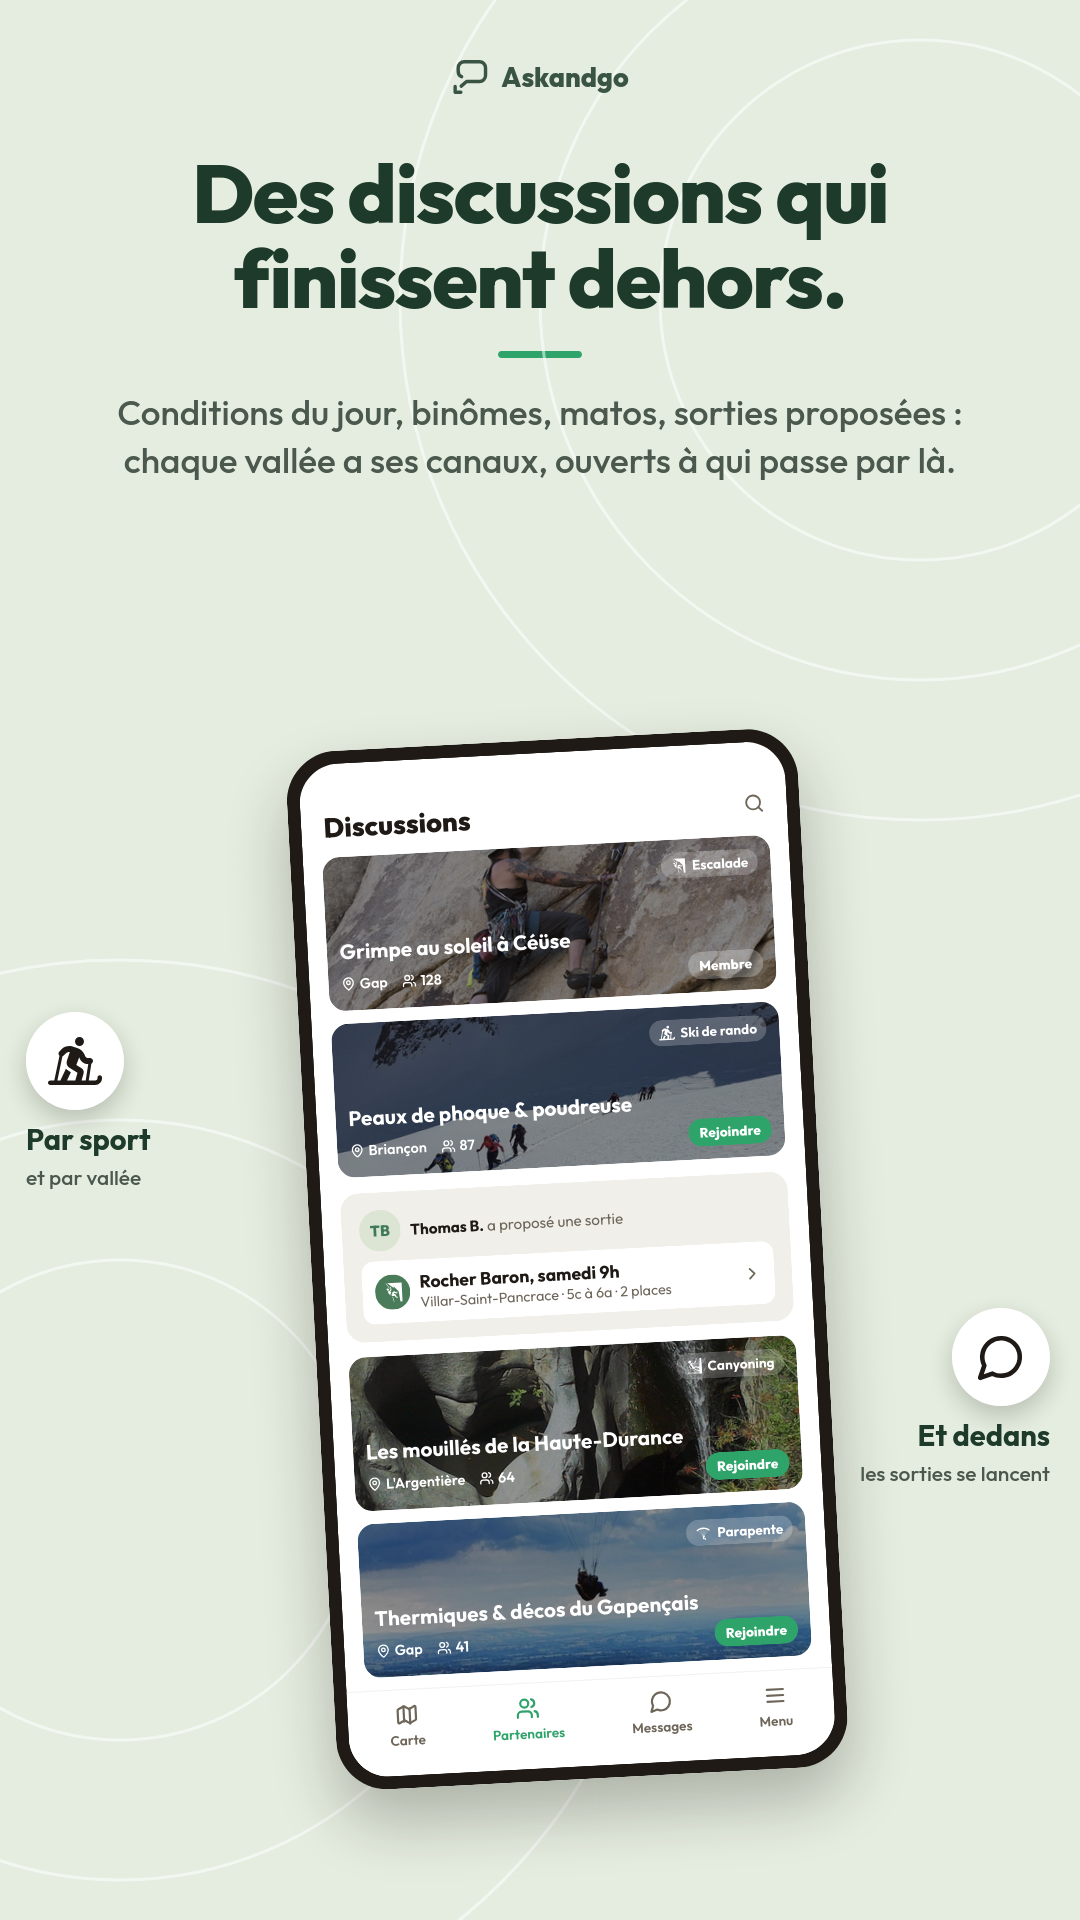
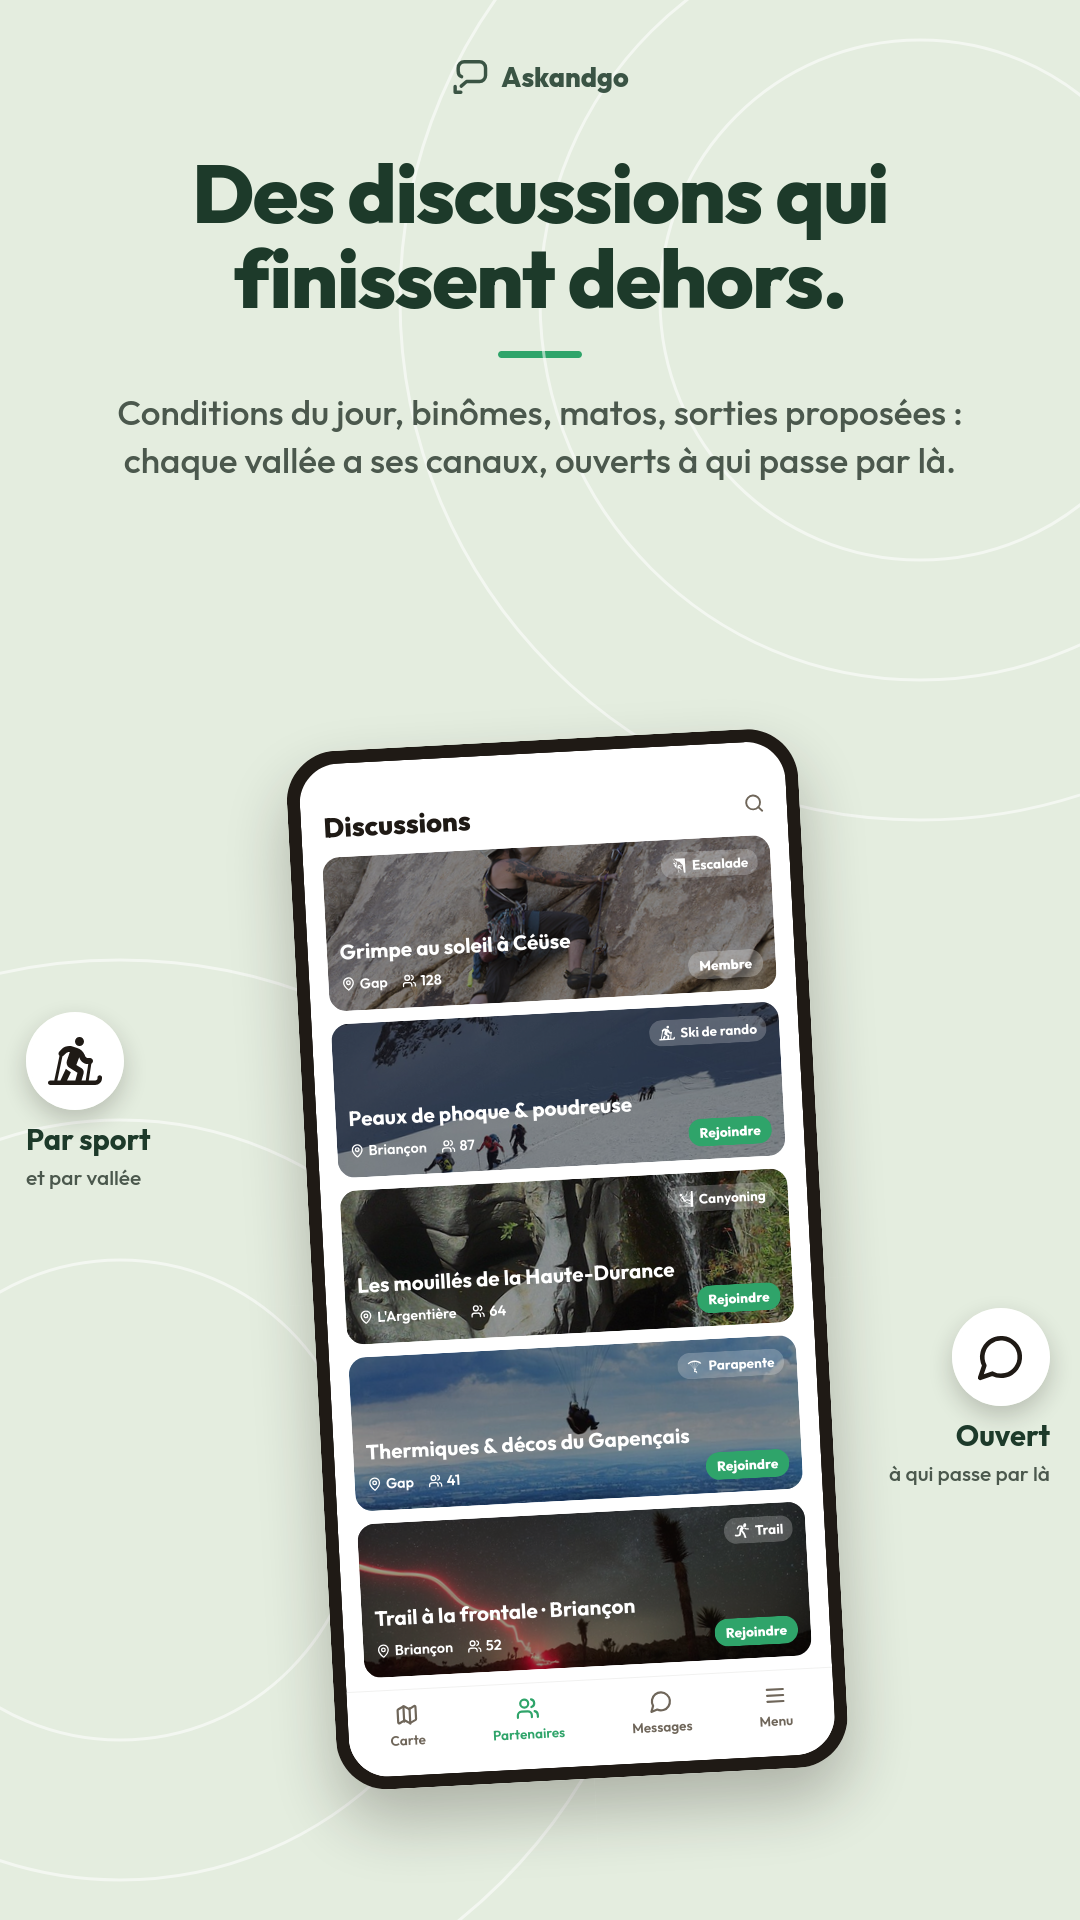
docs(store): Partenaires, Canaux and Profil images redrawn from the real screens (zone pill, « Ta dispo » line, dispo cards with reliability ring; channels only; real profile hero, sport chips, peer lines, contact button — no invented badges)

Changed region(s): [[0.3056, 0.5938, 0.7639, 0.875], [0.825, 0.7188, 0.9778, 0.7812]]

diff --git a/assets/play-store/askandgo/generate.py b/assets/play-store/askandgo/generate.py
@@ -26,6 +26,9 @@ L={ # lucide-ish paths (24 grid)
 'sliders':'<path d="M4 21v-7M4 10V3M12 21v-9M12 8V3M20 21v-5M20 12V3M2 14h4M10 8h4M18 16h4"/>',
 'layers':'<path d="m12.8 2.2 8.5 4.2a1 1 0 0 1 0 1.8l-8.5 4.2a2 2 0 0 1-1.8 0L2.5 8.2a1 1 0 0 1 0-1.8l8.5-4.2a2 2 0 0 1 1.8 0"/><path d="m22 17.7-9.3 4.6a2 2 0 0 1-1.8 0L2 17.7"/><path d="m22 12.5-9.3 4.6a2 2 0 0 1-1.8 0L2 12.5"/>',
 'plus':'<path d="M5 12h14M12 5v14"/>',
+'mountain':'<path d="m8 3 4 8 5-5 5 15H2L8 3z"/>',
+'help':'<circle cx="12" cy="12" r="10"/><path d="M9.1 9a3 3 0 0 1 5.8 1c0 2-3 3-3 3"/><path d="M12 17h.01"/>',
+'chevl':'<path d="m9 18 6-6-6-6"/>',
 'eye':'<path d="M2 12s3.5-7 10-7 10 7 10 7-3.5 7-10 7S2 12 2 12"/><circle cx="12" cy="12" r="3"/>',
 'bell':'<path d="M10.3 21a1.9 1.9 0 0 0 3.4 0"/><path d="M3.3 17c-.3.3-.3.8 0 1.1.2.2.4.3.7.3h16c.6 0 1-.4 1-1 0-.3-.1-.5-.3-.7-1.1-1.1-2.1-2.3-2.1-6.3a6.6 6.6 0 0 0-13.2 0c0 4-1 5.2-2.1 6.3"/>',
 }
@@ -59,7 +62,8 @@ h1{{position:relative;margin:150px 70px 0;text-align:center;font-size:82px;line-
 .scr{{position:relative;width:100%;height:100%;border-radius:50px;overflow:hidden;background:#FFF;display:flex;flex-direction:column}}
 .hd{{display:flex;align-items:center;gap:14px;padding:58px 28px 16px;font-size:34px;font-weight:800}}
 .hd .sm{{font-size:21px;color:{SEC};font-weight:600}}
-.tabs{{margin-top:auto;display:flex;justify-content:space-around;padding:16px 10px 34px;border-top:1px solid rgba(31,26,21,.08);background:#FFF}}
+.zoomwrap{{width:405px;height:845px;transform:scale(1.5);transform-origin:0 0;flex-shrink:0;display:flex;flex-direction:column}}
+.tabs{{margin-top:auto;position:relative;z-index:2;display:flex;justify-content:space-around;padding:16px 10px 34px;border-top:1px solid rgba(31,26,21,.08);background:#FFF}}
 .tab{{display:flex;flex-direction:column;align-items:center;gap:6px;font-size:17px;color:{SEC};font-weight:600}}.tab.on{{color:{GREEN}}}
 .sp{{display:inline-flex;flex-shrink:0}}.sp svg{{width:100%;height:100%}}
 .li{{flex-shrink:0}}
@@ -134,23 +138,32 @@ body=f'''<div class="hd" style="padding-bottom:6px"><div class="av" style="backg
 pills=f'<div class="pills"><div class="pr"><b>TRANSPORT</b>qui conduit, qui monte, d\'où</div><div class="pr"><b>MATÉRIEL</b>qui apporte quoi, ce qui manque</div><div class="pr"><b>DISCUSSION</b>les participants, et personne d\'autre</div></div>'
 out['2-sortie']=screen('Dedans, tout<br>s\'organise.','Qui conduit, qui apporte la corde, qui est en retard : tout le monde le voit au même endroit. Personne ne relance personne.',body,'',top=830,pills=pills,scale=0.78)
 
-# 3 — partenaires
-def dispo(ini,name,sports,when,zone,bg='#DCE5D3',fg='#3F7A56'):
-    ss=''.join(f'<span class="sp" style="width:26px;height:26px;color:{UNI[s]}">{IC[s]}</span>' for s in sports)
-    return f'<div class="card"><div class="row" style="margin:0"><div class="av" style="background:{bg};color:{fg}">{ini}</div><div class="t"><b>{name}</b><small>{when} · {zone}</small></div><span class="gp">Inviter</span></div><div style="display:flex;gap:10px;margin-top:14px;align-items:center">{ss}<span style="font-size:18px;color:{SEC};margin-left:4px">cherche un binôme</span></div></div>'
-body=f'''<div class="hd">Partenaires</div>
-<div class="card" style="background:{DEEP};color:#FFF;margin-top:0"><div style="font-size:18px;font-weight:700;letter-spacing:1px;opacity:.8">TA DISPO</div>
- <div style="display:flex;align-items:center;gap:12px;margin-top:10px;font-size:25px;font-weight:800">{li('cal',26,'#FFF')}Samedi matin</div>
- <div style="display:flex;align-items:center;gap:10px;margin-top:10px;font-size:20px"><span class="sp" style="width:28px;height:28px;color:#FFF">{IC['climbing-sport']}</span><span class="sp" style="width:28px;height:28px;color:#FFF">{IC['ski-touring']}</span>Escalade, ski de rando</div>
- <div style="display:flex;align-items:center;gap:10px;margin-top:8px;font-size:20px">{li('pin',22,'#FFF')}Briançon · 35 km</div></div>
-<div style="padding:10px 28px 12px;font-size:19px;font-weight:800;letter-spacing:1px;color:{SEC}">QUI CHERCHE LA MÊME CHOSE · 5</div>
-{dispo('TB','Thomas B.',['climbing-sport'],'sam. matin','Briançon · 35 km')}
-{dispo('JR','Julie R.',['ski-touring','climbing-sport'],'sam. matin','Névache · 60 km','#E7DCEB','#6B4E8B')}
-{dispo('YA','Youssef A.',['climbing-sport','via-ferrata'],'sam. + dim.','Gap · 60 km','#F0E1D6','#A4552D')}
-{dispo('CD','Chloé D.',['ski-touring'],'dim. matin','Montgenèvre · 35 km','#DDE8F0','#2B5F86')}
-{dispo('PL','Pierre-Yves L.',['climbing-sport'],'sam. après-midi','Briançon · 35 km')}
+# 3 — partenaires (as the real tab: title + zone pill, « Ta dispo » line, dispo cards, discussion tiles)
+def ring_av(ini,color,bg='#DCE5D3',fg='#3F7A56'):
+    return f'<div style="width:56px;height:56px;border-radius:50%;border:3px solid {color};padding:2px;flex-shrink:0"><div class="av" style="width:100%;height:100%;background:{bg};color:{fg};font-size:17px">{ini}</div></div>'
+def dispo(ini,name,tier,tiercol,km,dates,sports,about,state=None,bg='#DCE5D3',fg='#3F7A56'):
+    pills=''.join(f'<span class="chip" style="background:{UNI[k]}1A;color:{UNI[k]};gap:4px;padding:4px 9px;font-size:13px"><span class="sp" style="width:14px;height:14px;color:{UNI[k]}">{IC[k]}</span>{n}</span>' for k,n in sports)
+    st=f'<span class="chip" style="font-size:14px;padding:4px 9px;color:{SEC}">{state}</span>' if state else ''
+    return f'''<div style="width:252px;flex-shrink:0;background:#FFF;border-radius:18px;padding:14px;display:flex;flex-direction:column;gap:10px;box-shadow:0 2px 6px rgba(31,26,21,.14)">
+<div style="display:flex;align-items:center;gap:10px">{ring_av(ini,tiercol,bg,fg)}<div style="flex:1;min-width:0"><div style="font-size:16px;font-weight:700;white-space:nowrap;overflow:hidden;text-overflow:ellipsis">{name}</div><div style="font-size:14px;font-weight:600;color:{tiercol}">{tier}</div></div>{st}</div>
+<div style="font-size:14px;color:{SEC}">à {km} km · {dates}</div>
+<div style="display:flex;flex-wrap:wrap;gap:6px">{pills}</div>
+<div style="font-size:14px;line-height:1.3">« {about} »</div><div style="font-size:13px;color:{SEC}">🧭 Découverte&nbsp;&nbsp;&nbsp;🤝 Convivialité</div></div>'''
+GOOD='#2ECC71'; EXC='#2F6FED'
+def tile_s(k,sk,sport,name,place,n,badge):
+    return f'<div class="tile" style="width:200px;height:150px;margin:0;flex-shrink:0;background-image:url({PH(k)});padding:12px"><div class="tt"><span class="chip" style="background:rgba(255,255,255,.92);color:#1F1A15;font-size:13px;padding:3px 9px">{badge}</span><span class="sc" style="font-size:13px;padding:4px 8px">{sp(sk,14)}</span></div><div class="tb"><b style="font-size:17px">{name}</b><div class="tm" style="font-size:14px"><span>{li("pin",14,"#FFF")}{place}</span><span>{li("users",14,"#FFF")}{n}</span></div></div></div>'
+body=f'''<div class="zoomwrap"><div style="display:flex;align-items:center;justify-content:space-between;padding:44px 16px 0"><span style="font-size:28px;font-weight:800;letter-spacing:-.5px">Partenaires</span><span class="chip" style="background:{GREEN}1A;color:{GREEN};gap:5px;font-size:16px">{li('pin',16,GREEN)}Briançon · 35 km</span></div>
+<div style="margin:14px 16px 0;background:#1F2A22;border-radius:16px;padding:12px 14px;display:flex;align-items:center;gap:12px"><span style="width:10px;height:10px;border-radius:5px;background:{GREEN}"></span><div style="flex:1;min-width:0"><div style="color:#FFF;font-size:19px;font-weight:700">Ta dispo · en ligne</div><div style="color:rgba(255,255,255,.72);font-size:15px">8 nov – 15 nov · Escalade, Ski de rando</div></div>{li('chevl',20,'#FFF')}</div>
+<div style="display:flex;align-items:center;justify-content:space-between;padding:22px 16px 10px"><span style="font-size:20px;font-weight:800">Dispos qui collent <span style="color:{GREEN}">3</span></span><span style="color:{GREEN};font-size:16px;font-weight:700">Tout voir ›</span></div>
+<div style="display:flex;gap:12px;padding:0 16px;overflow:hidden">
+{dispo('TB','Théo B.','Excellente',EXC,12,'8 nov – 15 nov',[('climbing-sport','Escalade')],'Falaise le week-end, je prends la corde.','En contact')}
+{dispo('JR','Julie R.','Bonne',GOOD,24,'9 nov – 12 nov',[('ski-touring','Ski de rando'),('climbing-sport','Escalade')],'Débutante en peaux, motivée !',None,'#E7DCEB','#6B4E8B')}
+</div>
+<div style="display:flex;align-items:center;justify-content:space-between;padding:22px 16px 10px"><span style="font-size:20px;font-weight:800">Discussions</span><span style="color:{GREEN};font-size:16px;font-weight:700">Tout voir ›</span></div>
+<div style="display:flex;gap:12px;padding:0 16px;overflow:hidden">{tile_s(4,'climbing-sport','Escalade','Grimpe au soleil à Céüse','Gap',128,'Membre')}{tile_s(1,'ski-touring','Ski de rando','Peaux de phoque & poudreuse','Briançon',87,'Près de toi')}</div>
+<div style="display:flex;align-items:center;gap:6px;padding:14px 16px 0;color:{SEC};font-size:15px;font-weight:600">{li('plus',16,SEC)}Ouvrir une discussion</div></div>
 {tabbar(1)}'''
-extra=callout(26,1000,li('cal',50,INK),'Quand','ton créneau, pas ton agenda','left',212)+callout(838,1180,li('pin',50,INK),'Où','ta zone, jamais ton adresse','right',212)
+extra=callout(26,760,li('cal',50,INK),'Ta dispo','un créneau, des sports, une zone','left',212)+callout(838,1000,li('users',50,INK),'Qui colle','même sport, même zone, mêmes dates','right',212)
 out['3-partenaires']=screen('Dis quand<br>tu es dispo.','Pour quels sports, dans quelle zone — et vois qui cherche la même chose. Un message, et vous partez ensemble.',body,extra)
 
 # 4 — canaux
@@ -159,30 +172,32 @@ def tile(k,sk,sport,name,place,n,tag):
 body=f'''<div class="hd">Discussions<span class="sm" style="margin-left:auto">{li('search',26,SEC)}</span></div>
 {tile(4,'climbing-sport','Escalade','Grimpe au soleil à Céüse','Gap',128,'Membre')}
 {tile(1,'ski-touring','Ski de rando','Peaux de phoque & poudreuse','Briançon',87,'Rejoindre')}
-<div class="card alt" style="margin-top:4px"><div style="display:flex;align-items:center;gap:12px"><div class="av">TB</div><div style="font-size:19px;color:{SEC}"><b style="color:{INK}">Thomas B.</b> a proposé une sortie</div></div>
- <div style="margin-top:12px;background:#FFF;border-radius:16px;padding:14px 16px;display:flex;align-items:center;gap:12px"><div class="av" style="background:#4A7C59;color:#FFF;width:44px;height:44px">{sp('climbing-sport',26)}</div><div style="flex:1"><b style="font-size:22px">Rocher Baron, samedi 9h</b><div style="font-size:18px;color:{SEC}">Villar-Saint-Pancrace · 5c à 6a · 2 places</div></div>{li('chev',24,SEC)}</div></div>
 {tile(2,'canyoning','Canyoning','Les mouillés de la Haute-Durance',"L'Argentière",64,'Rejoindre')}
 {tile(6,'paragliding','Parapente','Thermiques & décos du Gapençais','Gap',41,'Rejoindre')}
+{tile(3,'trail-running','Trail','Trail à la frontale · Briançon','Briançon',52,'Rejoindre')}
 {tabbar(1)}'''
-extra=callout(26,1060,sp('ski-touring',54,INK),'Par sport','et par vallée','left',212)+callout(838,1430,li('msg',50,INK),'Et dedans','les sorties se lancent','right',212)
+extra=callout(26,1060,sp('ski-touring',54,INK),'Par sport','et par vallée','left',212)+callout(838,1430,li('msg',50,INK),'Ouvert','à qui passe par là','right',212)
 out['4-canaux']=screen('Des discussions qui<br>finissent dehors.','Conditions du jour, binômes, matos, sorties proposées : chaque vallée a ses canaux, ouverts à qui passe par là.',body,extra)
 
-# 5 — confiance
-body=f'''<div class="hd"><div class="av" style="width:72px;height:72px;font-size:26px">LM</div><div><div>Léa M.</div><div class="sm">Membre depuis mars 2026 · Briançon</div></div></div>
-<div class="card alt" style="margin-top:8px"><div class="sec">{li('shield',24,GREEN)}Fiabilité</div>
- <div style="display:flex;align-items:baseline;gap:14px;margin-top:12px"><span style="font-size:40px;font-weight:800;color:{GREEN}">Bonne</span><span style="font-size:22px;color:{SEC}">présente à 94 % de ses sorties</span></div>
- <div style="height:12px;border-radius:6px;background:#E2DFD8;margin-top:12px"><div style="width:94%;height:100%;border-radius:6px;background:{GREEN}"></div></div>
- <div style="display:flex;justify-content:space-between;margin-top:18px;text-align:center">{"".join(f'<div><div style="font-size:32px;font-weight:800">{n}</div><div style="font-size:17px;color:{SEC}">{t}</div></div>' for n,t in [(53,'terminées'),(29,'créées'),(24,'rejointes')])}</div></div>
-<div class="card alt"><div class="sec">Sports pratiqués</div>
- <div class="row"><span class="sp" style="width:34px;height:34px;color:#4A7C59">{IC['climbing-sport']}</span><div class="t"><b>Escalade · ×29</b><small>6a confirmé par 7 partenaires</small></div><span class="chip ok">{li('check',18,'#1E6B45',3)}confirmé</span></div>
- <div class="row"><span class="sp" style="width:34px;height:34px;color:#4A7C59">{IC['ski-touring']}</span><div class="t"><b>Ski de rando · ×11</b><small>Intermédiaire · déclaré</small></div></div>
- <div class="row"><span class="sp" style="width:34px;height:34px;color:#E11D48">{IC['trail-running']}</span><div class="t"><b>Trail · ×6</b><small>Confirmé · 1 200 m D+</small></div></div></div>
-<div class="card alt"><div class="sec">Ses partenaires disent</div>
- <div style="display:flex;flex-wrap:wrap;gap:10px;margin-top:16px"><span class="chip">Ponctuelle <b style="color:{GREEN}">38</b></span><span class="chip">Préparée <b style="color:{GREEN}">17</b></span><span class="chip">Prudente <b style="color:{GREEN}">12</b></span><span class="chip">Conciliante <b style="color:{GREEN}">9</b></span></div></div>
-<div class="card alt"><div class="sec">Badges</div>
- <div style="display:flex;gap:10px;margin-top:16px">{"".join(f'<div style="flex:1;background:#FFF;border-radius:16px;padding:12px;text-align:center"><div style="font-size:30px">{e}</div><div style="font-size:17px;font-weight:700;margin-top:4px">{t}</div></div>' for e,t in [('🏔','Encordée ×25'),('🌅','Lève-tôt'),('🧭','Organisatrice')])}</div></div>
+# 5 — confiance (the real public profile: hero card, sports chips, peer lines, contact button)
+GOOD='#2ECC71'
+def sportchip(k,count,lvl,tri):
+    t={'up':f'<span style="width:0;height:0;border-left:6px solid transparent;border-right:6px solid transparent;border-bottom:10px solid {GOOD}"></span>','dot':f'<span style="width:8px;height:8px;border-radius:4px;background:#C9C3B9"></span>'}[tri]
+    return f'<span style="display:inline-flex;align-items:center;gap:8px;background:#F1EFEA;border-radius:999px;padding:9px 14px;font-size:18px;font-weight:700"><span class="sp" style="width:20px;height:20px;color:{UNI[k]}">{IC[k]}</span>×{count}<span style="width:1px;height:16px;background:#D5D0C7"></span><span style="font-weight:600">{lvl}</span>{t}</span>'
+def peer(label,n,col=GREEN):
+    return f'<span style="display:inline-flex;align-items:center;gap:7px;font-size:18px;padding:6px 0 6px 0;margin-right:22px"><span style="width:8px;height:8px;border-radius:4px;background:{col}"></span>{label}<b style="color:{col}">{n}</b></span>'
+body=f'''<div class="zoomwrap"><div style="display:flex;align-items:center;gap:14px;padding:44px 16px 10px;font-size:22px;font-weight:800">‹<span style="flex:1">Léa M.</span></div>
+<div class="card" style="margin:4px 16px 14px;padding:14px"><div style="display:flex;gap:16px;align-items:center">
+ <div style="position:relative;width:92px;flex-shrink:0;display:flex;flex-direction:column;align-items:center"><div style="width:92px;height:92px;border-radius:50%;border:4px solid {GOOD};padding:4px"><div class="av" style="width:100%;height:100%;font-size:28px">LM</div></div><span style="margin-top:-12px;background:{GOOD};color:#FFF;font-size:14px;font-weight:800;border-radius:999px;padding:3px 10px;box-shadow:0 3px 8px rgba(46,204,113,.45)">94%</span></div>
+ <div style="flex:1;min-width:0"><div style="display:flex;align-items:center;gap:6px;font-size:13px;letter-spacing:1px;font-weight:800;color:{SEC}">FIABILITÉ {li('help',14,'#A0968A')}</div><div style="font-size:34px;font-weight:800;color:{GOOD};line-height:1.1">Bonne</div><div style="font-size:15px;color:{SEC};margin-top:2px">Membre depuis mars 2026 · Briançon</div>
+ <div style="display:flex;align-items:center;margin-top:12px">{"".join(f'<div style=\"flex:1;text-align:center\"><div style=\"font-size:24px;font-weight:800;color:{c}\">{n}</div><div style=\"font-size:13px;color:{SEC}\">{t}</div></div>'+('<div style=\"width:1px;height:28px;background:#E2DFD8\"></div>' if i<2 else '') for i,(n,t,c) in enumerate([(53,'Terminées',GOOD),(29,'Créées',GREEN),(24,'Rejointes','#4B7CB8')]))}</div></div></div></div>
+<div class="card" style="margin:0 16px 14px;padding:14px;gap:10px;display:flex;flex-direction:column"><div style="display:flex;align-items:center;gap:8px;font-size:17px;font-weight:800">{li('mountain',20,GREEN)}Sports pratiqués</div>
+ <div style="display:flex;flex-wrap:wrap;gap:8px">{sportchip('climbing-sport',29,'6a','up')}{sportchip('ski-touring',11,'Intermédiaire','dot')}{sportchip('trail-running',6,'Confirmé','up')}</div></div>
+<div class="card" style="margin:0 16px 14px;padding:14px;gap:8px;display:flex;flex-direction:column"><div style="display:flex;align-items:center;gap:8px;font-size:17px;font-weight:800">{li('users',20,GREEN)}Ses partenaires disent…</div>
+ <div style="display:flex;flex-wrap:wrap">{peer('Ponctuel',38,'#C9A227')}{peer('Préparé',17,'#8E9AA8')}{peer('Prudent',12,'#8E9AA8')}{peer('Conciliant',9,'#B87333')}</div></div>
+<div style="margin:6px 16px 0;background:{GREEN};border-radius:999px;padding:14px;text-align:center;color:#FFF;font-size:17px;font-weight:800;box-shadow:0 8px 20px rgba(47,164,106,.4)">Demander le contact</div></div>
 {tabbar(3)}'''
-extra=callout(26,960,li('pin',50,INK),'Présence','vérifiée sur place, sortie après sortie','left',212)+callout(838,1240,li('users',50,INK),'Niveau','confirmé par ceux qui ont grimpé avec elle','right',212)
+extra=callout(26,900,li('pin',50,INK),'Présence','vérifiée sur place, sortie après sortie','left',212)+callout(838,1160,li('users',50,INK),'Niveau','confirmé par ceux qui ont grimpé avec elle','right',212)
 out['5-confiance']=screen('Des inconnus, oui.<br>Des inconnus fiables.','Pas de notes, pas de classement. Une fiabilité qui se construit dehors, et des niveaux confirmés par les partenaires.',body,extra)
 
 # 6 — pros
